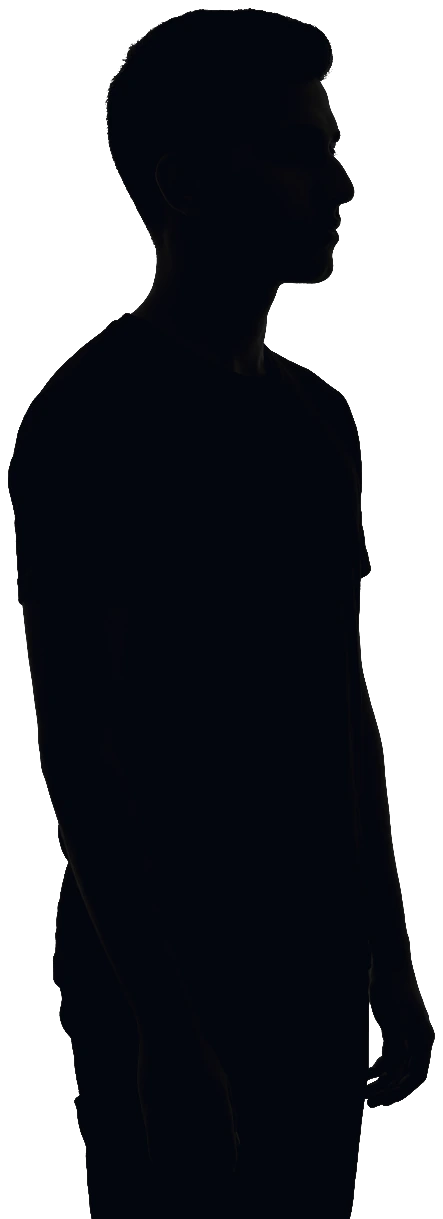
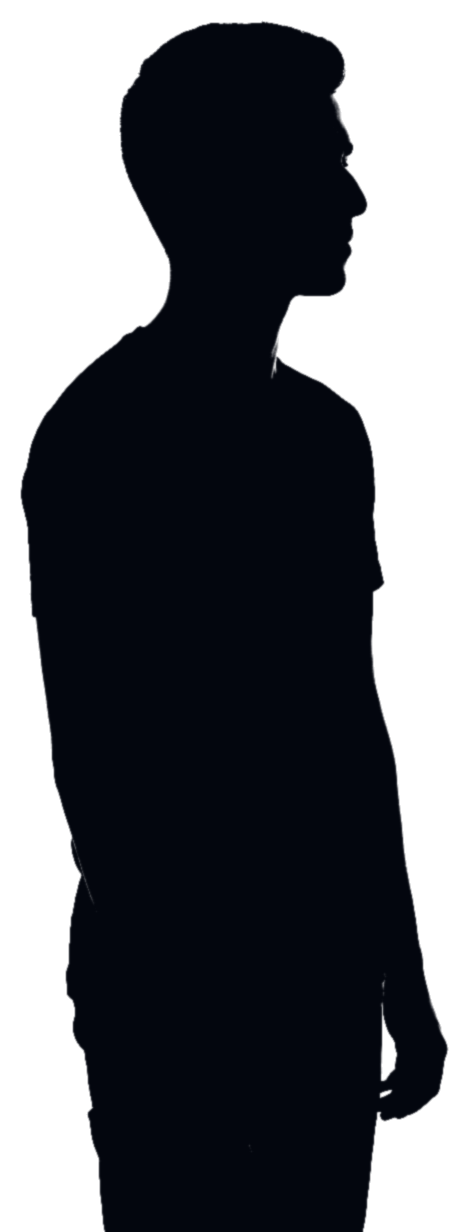
fix(hero): eliminate faint white rectangular edge halo around silhouettes

diff --git a/src/components/landing/hero-silhouettes.tsx b/src/components/landing/hero-silhouettes.tsx
@@ -57,7 +57,7 @@ export function HeroSilhouettes({ progress }: { progress: MotionValue<number> })
           alt=""
           loading="eager"
           decoding="async"
-          className="h-full w-auto max-w-none object-contain object-bottom drop-shadow-[0_0_32px_hsl(var(--brand-400)/0.28)] [mask-image:linear-gradient(to_bottom,#000_76%,transparent_100%)]"
+          className="h-full w-auto max-w-none object-contain object-bottom [mask-image:linear-gradient(to_bottom,#000_76%,transparent_100%)]"
         />
       </motion.div>
 
@@ -75,7 +75,7 @@ export function HeroSilhouettes({ progress }: { progress: MotionValue<number> })
           alt=""
           loading="eager"
           decoding="async"
-          className="h-full w-auto max-w-none object-contain object-bottom drop-shadow-[0_0_34px_hsl(var(--brand-400)/0.3)] [mask-image:linear-gradient(to_bottom,#000_76%,transparent_100%)]"
+          className="h-full w-auto max-w-none object-contain object-bottom [mask-image:linear-gradient(to_bottom,#000_76%,transparent_100%)]"
         />
         <span
           className="absolute right-1 top-[8%] h-[14%] w-7 bg-white/95 drop-shadow-[0_6px_18px_rgba(0,0,0,0.35)] sm:-right-11 sm:top-[10%] sm:h-[16%] sm:w-14"
